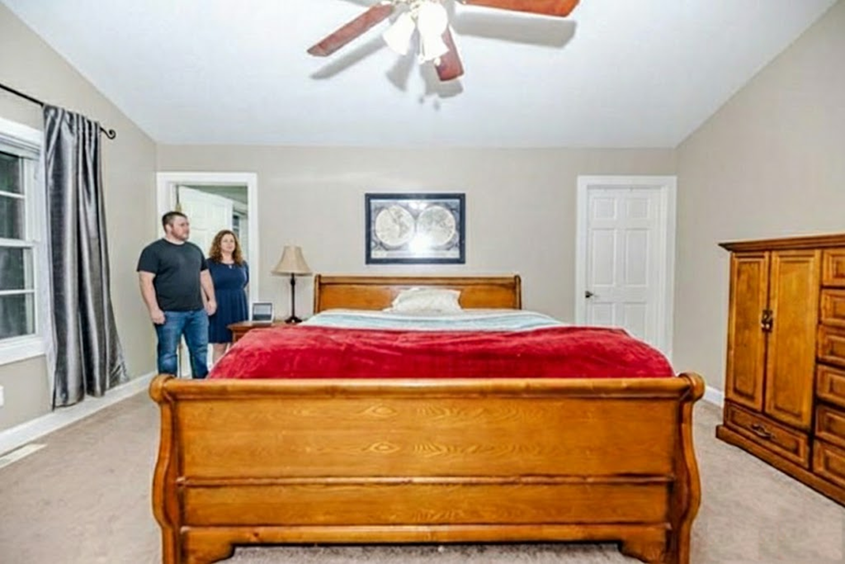
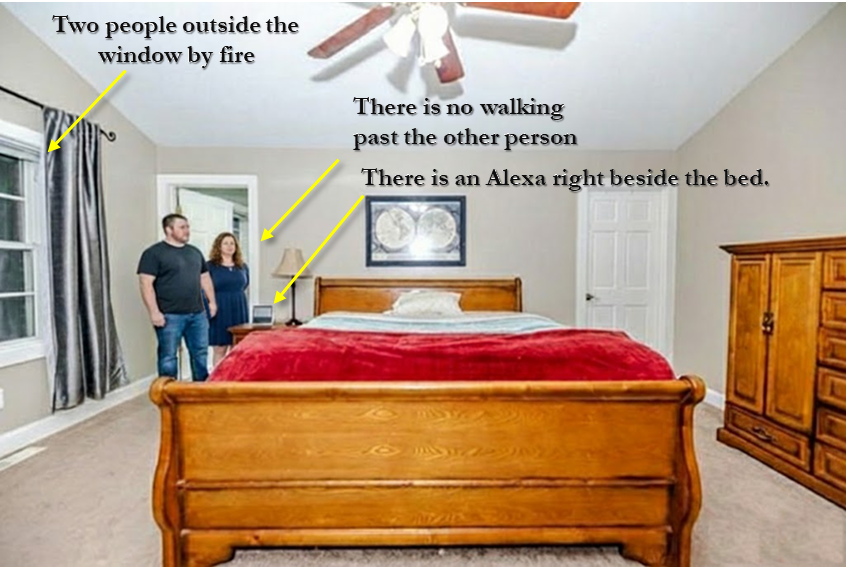
new updates
sdfasd

diff --git a/scene.html b/scene.html
@@ -45,7 +45,7 @@
         <script src="shared/orbital-carousel.js"></script>
 
         <div class="content-section">
-            <h2 class="section-title" style="text-align: center; margin: 0 auto;">Scene & Push Dynamics</h2>
+             <h2 style="margin: 30px 0 15px 0; text-align: center;">Scene & Push Dynamics</h2>
             <p style="font-size:0.9rem; opacity:0.85; margin-bottom: 20px;">
               Since no scene analysis was done by law enforcement the defense offers the following.The bathroom door leads into an open doorway area that is narrow and confined as it enters the bedroom. Immediately outside of that doorway is a large bed whose mattress is waist height.
 The bedroom layout creates a short, straight path from the bathroom door to the space beside the bed.
@@ -55,16 +55,7 @@ another adult to stand "behind and to the side," while also having enough angle 
 This spatial reality matters, because her shifting statements require different physical positions that cannot all be true.
             </p>
                         
-            <!-- Doorway Image -->
-            <div style="display: flex; justify-content: center; margin-bottom: 32px;">
-                <img src="../documents/graphics/doorway_people.png" 
-                         alt="Lacks sufficient space for two adults in the doorway area" 
-                         class="apple-img"
-                         style="width: 720px;" onclick="openImageModal('../documents/graphics/doorway_people.png')" style="cursor: zoom-in;">
-            </div>
-            <h2 style="margin: 30px 0 15px 0; text-align: center;">Bedroom Layout – Claimed Assault Location</h2>
-            <h3 style="margin: 30px 0 15px 0; text-align: center;">Lacks sufficient space for two adults in the doorway area</h3>
-
+           
             <div class="scene-card-grid">
                 <!-- CARD 1 - Enhanced Physics Card -->
                 <div class="card" style="border: 3px solid #d4af37; box-shadow: 0 8px 24px rgba(212,175,55,0.3);">
@@ -261,6 +252,17 @@ This spatial reality matters, because her shifting statements require different 
                     consistent with fabrication rather than genuine recall of a traumatic event.
                 </p>
             </div>
+ <!-- Doorway Image -->
+            <div style="display: flex; justify-content: center; margin-bottom: 32px;">
+                <img src="../documents/graphics/doorway_people.png" 
+                         alt="Lacks sufficient space for two adults in the doorway area" 
+                         class="apple-img"
+                         style="width: 720px;" onclick="openImageModal('../documents/graphics/doorway_people.png')" style="cursor: zoom-in;">
+            </div>
+            <h2 style="margin: 30px 0 15px 0; text-align: center;">Bedroom Layout – Claimed Assault Location</h2>
+            <h3 style="margin: 15px 0 10px 0; text-align: center;">Lacks sufficient space for two adults in the doorway area</h3>
+            <h3 style="margin: 15px 0 10px 0; text-align: center;">Two witnesses outside the window by the fire.</h3>
+            <h3 style="margin: 15px 0 10px 0; text-align: center;">An Alexa by the bed that is set to send alerts if anyone says, "I need help."</h3>
 
             <div class="apple-card" style="margin: 40px 0 20px 0; padding: 25px;">
                 <h3 style="text-align: center; margin-bottom: 15px; color: var(--light);">Physical Geometry Exhibits</h3>

diff --git a/index.html b/index.html
@@ -154,13 +154,13 @@ shadow of personal allegiance or personal profit.</div>
 
             <!-- Standalone Dramatic Statement -->
             <div style="margin: 60px auto; max-width: 900px; text-align: center; padding: 50px 40px;">
-                <p style="font-family: 'Playfair Display', serif; font-size: 1.35rem; font-style: italic; color: #e5e7eb; line-height: 1.9; margin-bottom: 28px; letter-spacing: 0.02em;">
+                <p style="font-family: 'Crimson Text', serif; font-size: 1.35rem; color: #e5e7eb; line-height: 2.0; margin-bottom: 28px; letter-spacing: 0.02em;">
                    This case is a chilling illustration of unchecked prosecutorial power—authority so absolute it would permit others to place a hatchet in the hands of Mike Nifong beneath a cherry tree, a fitting parallel where narrative preservation eclipses evidence and confessed truth is reduced to farce.
                 </p>
-                <p style="font-family: 'Crimson Text', serif; font-size: 1.2rem; color: #d1d5db; line-height: 1.85; margin-bottom: 28px;">
+                <p style="font-family: 'Crimson Text', serif; font-size: 1.35rem; color: #d1d5db; line-height: 2.0; margin-bottom: 28px;">
                     Yet, despite the flagrant parallels to one of the most notorious examples of prosecutorial misconduct, every single plea for scrutiny, every challenge to authority, has gone unanswered.
                 </p>
-                <p style="font-family: 'Crimson Text', serif; font-size: 1.2rem; color: #fafbfd; line-height: 1.85; margin-bottom: 28px;">
+               <p style="font-family: 'Crimson Text', serif; font-size: 1.35rem; color: #d1d5db; line-height: 2.0; margin-bottom: 28px;">
               In that vacuum of accountability, misconduct thrives. The public's faith in justice erodes not because the laws are weak, but because those sworn to uphold them refuse to hold each 
 other accountable. <br>What remains is not oversight—<br>
                     <span style="font-family: 'Playfair Display', serif; font-style: italic; color: #fcf9f9;">it is protectionism dressed as ethics.</span>

diff --git a/timeline.html b/timeline.html
@@ -64,7 +64,7 @@
                             <div class="event-time" style="color: white;">Oct 19 2019 12:08 AM</div>
                             <div class="event-description">
                                 Benjamin Allen and Friends Arrive at Schooly's
-                                <img src="documents/graphics/video-icon-8035.png" alt="Video" style="width: 24px; height: 24px; cursor: pointer;" onclick="openImageModal('video/a Arrival.mp4')">
+                                <img src="documents/graphics/video-icon-8035.png" alt="Video" style="width: 24px; height: 24px; cursor: pointer;" onclick="event.stopPropagation(); openImageModal('video/A Arrival.mp4')">
                                 <span class="video-hint">(Select to watch video)</span>
                             </div>
                         </div>

diff --git a/.github/copilot-instructions.md b/.github/copilot-instructions.md
@@ -1,0 +1,163 @@
+# Copilot Instructions
+
+> Repo-wide rules live here. For deeper per-folder rules, we may add `AGENTS.md` or scoped `*.instructions.md` files.
+
+---
+
+## Repository Purpose & Tech Stack
+
+**Project:** "An Edifice of Lies" - A comprehensive web-based case presentation documenting State v. Benjamin Allen, revealing contradictions, investigative failures, and prosecutorial misconduct through interactive visualizations.  
+**Primary Language:** HTML5, CSS3, JavaScript (Vanilla)  
+**Framework:** None - pure vanilla implementation, no build tools  
+**Package Manager:** None required for core functionality  
+**Runtime:** Modern web browser (Chrome/Edge recommended)  
+**Key Dependencies:** Google Fonts (Playfair Display, Crimson Text, Fredericka the Great)
+
+---
+
+## Quickstart
+
+### Install Dependencies
+```bash
+# No installation required - static HTML/CSS/JS site
+# Just clone and open in browser
+git clone [repo-url]
+```
+
+### Build
+```bash
+# No build process required
+# Open index.html directly in a browser
+```
+
+### Test
+```bash
+# Visual testing - open each HTML page in browser
+# Check: orbital carousel rotates, modals open/close, videos play
+# Expected: All pages load without console errors
+```
+
+### Lint / Format
+```bash
+# No formal linter configured
+# Maintain existing code style: 4-space indentation, single quotes in JS
+```
+
+---
+
+## CI Parity (First-Class Requirement)
+
+**Run the same commands CI runs.** The workflow files are the source of truth.
+
+| Workflow File | Key Jobs | What It Checks |
+|---------------|----------|----------------|
+| `.github/workflows/node.js.yml` | `build` | Node.js compatibility across 18.x, 20.x, 22.x |
+
+If instructions contradict workflow files, **treat workflows as authoritative** and flag the discrepancy.
+
+---
+
+## Project Layout Map
+
+> "If you need X, look in Y"
+
+| Path | Purpose |
+|------|---------|
+| `index.html` | Main entry point / Overview page |
+| `*.html` (root) | Individual presentation pages (12 total) |
+| `shared/` | All shared CSS, JS, and HTML snippets |
+| `shared/styles.css` | Global styles and CSS variables |
+| `shared/carousel-nav.css` | Orbital carousel navigation styles |
+| `shared/orbital-carousel.js` | 3D elliptical navigation logic |
+| `shared/image-modal.js` | Modal viewer for images/videos |
+| `shared/card-*.js` | Card utilities and color schemes |
+| `documents/` | Evidence files, graphics, mindmaps |
+| `documents/graphics/` | Images, logos, and visual assets |
+| `documents/graphics/inserts/` | Timeline insert images |
+| `documents/mindmaps/` | OPML mindmap source files |
+| `video/` | Video evidence files (.mp4) |
+| `audio/` | Audio evidence files (.opus) |
+| `.github/workflows/` | CI configuration |
+
+---
+
+## Conventions & Guardrails (Anti-Misbehavior Rules)
+
+**Do NOT:**
+- ❌ Reformat unrelated HTML/CSS files
+- ❌ Change CSS variable names in `:root` without updating all usages
+- ❌ Modify `shared/` files without checking all 12 HTML pages that use them
+- ❌ Remove `_backup` files - they are intentional version snapshots
+- ❌ Change video/image paths without verifying files exist
+- ❌ Break the orbital carousel positioning math (radiusX, radiusY, centerX, centerY)
+
+**Do:**
+- ✅ Test changes in Chrome/Edge AND Firefox
+- ✅ Preserve cache-busting query strings on CSS links (e.g., `?v=639006186749527756`)
+- ✅ Keep modal functionality working (Escape key closes, click outside closes)
+- ✅ Match existing indentation (4 spaces for HTML/CSS/JS)
+- ✅ Update README.md if adding new pages or features
+
+---
+
+## Definition of Done (PR Checklist)
+
+A PR is ready when:
+- [ ] All 12 HTML pages load without console errors
+- [ ] Orbital carousel rotates correctly on hover
+- [ ] Image/video modals open and close properly
+- [ ] Videos play in modal viewer
+- [ ] No broken image/video links
+- [ ] Responsive layout works on mobile viewport
+- [ ] README updated if behavior changed
+
+---
+
+## Known Gotchas
+
+1. **CSS cache busting:** Browser caches CSS aggressively → Update the `?v=` query string on `<link>` tags when changing `styles.css`
+2. **Orbital carousel math:** The ellipse uses `radiusX=580`, `radiusY=280` → Changing these breaks item positioning on all pages
+3. **Video modal won't play:** Modal expects video in `video/` folder with exact filename → Check path and file extension (.mp4, .webm, .ogg, .mov)
+4. **Backup files:** Files ending in `_backup.js` or `_backup.css` are intentional snapshots → Don't delete or merge them
+5. **Font loading:** Google Fonts loaded via `@import` in CSS → Slow connections may show FOUT (flash of unstyled text)
+6. **Modal z-index:** Modals must stay above carousel (z-index hierarchy) → Don't lower modal z-index below 1000
+
+---
+
+## Troubleshooting Commands
+
+| Problem | Try This |
+|---------|----------|
+| CSS changes not showing | Hard refresh: `Ctrl+Shift+R` or update `?v=` param |
+| Carousel not rotating | Check browser console for JS errors in `orbital-carousel.js` |
+| Modal won't open | Verify `image-modal.js` is loaded and modal HTML exists |
+| Video won't play | Check file path, ensure video codec is browser-compatible |
+| Page layout broken | Check for unclosed HTML tags, validate with browser DevTools |
+
+---
+
+## Minimal Exploration Rule
+
+**Trust this file first.** Only search the codebase when information is missing here.
+
+When exploring:
+1. Check `index.html` first (main entry point, shows page structure)
+2. Check `shared/styles.css` for CSS variables and global styles
+3. Check `shared/orbital-carousel.js` for navigation logic
+4. Check README.md for feature documentation
+5. Ask if still unclear
+
+---
+
+## PowerShell Helper Scripts
+
+Several PowerShell scripts exist for batch operations:
+
+| Script | Purpose |
+|--------|---------|
+| `add-modal.ps1` | Add modal HTML to pages |
+| `fix-image-links.ps1` | Batch fix image paths |
+| `fix-video-links.ps1` | Batch fix video paths |
+| `update-modal-video.ps1` | Update modal video functionality |
+
+Run with: `.\script-name.ps1` from project root.
